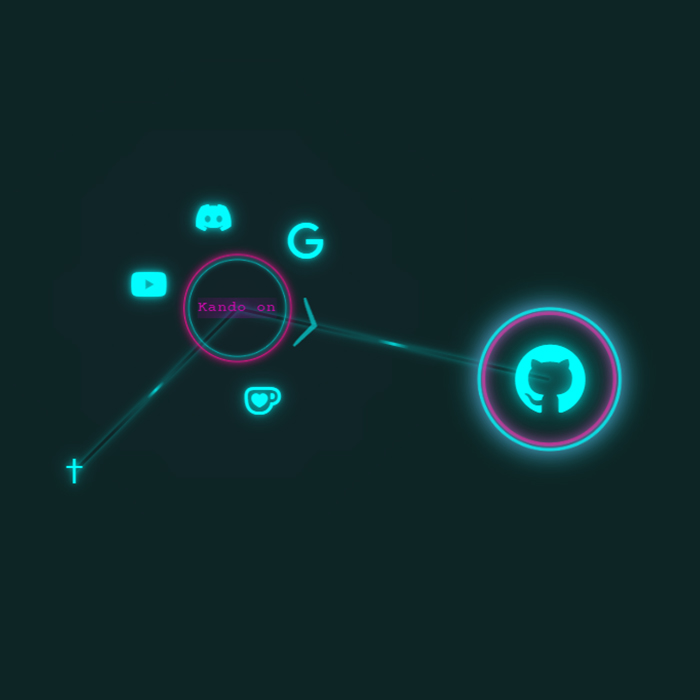
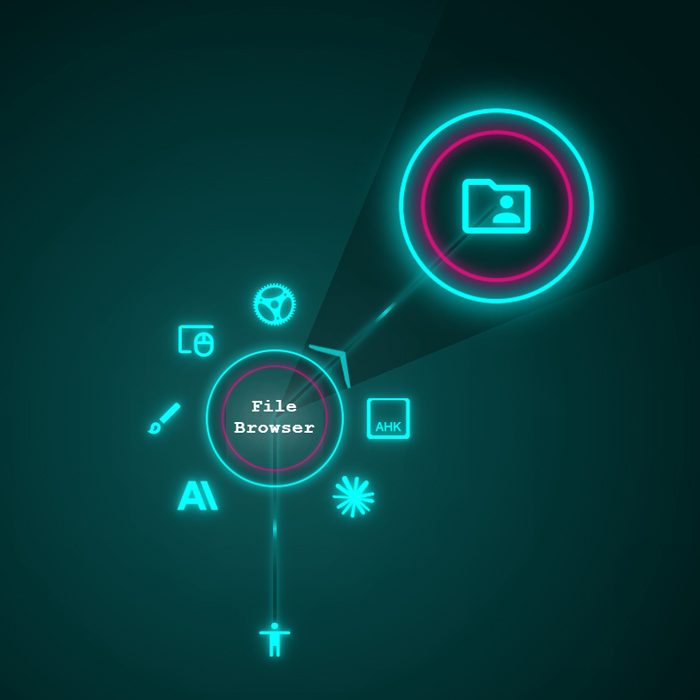
:wrench: Add wedges to Neo Ring theme

diff --git a/themes/neo-ring/theme.css b/themes/neo-ring/theme.css
@@ -399,3 +399,16 @@
 #kando-menu {
   background-color: var(--canvas-color) !important;
 }
+
+.selection-wedges {
+  mask: radial-gradient(circle at var(--center-x) var(--center-y), black 100px, transparent 50%);
+
+  &.hovered {
+    --width: calc(var(--end-angle) - var(--start-angle));
+    background: conic-gradient(from calc(var(--start-angle)) at var(--center-x) var(--center-y),
+        var(--wedge-highlight-color) var(--width),
+        var(--wedge-color) var(--width));
+  }
+
+  background: var(--wedge-color);
+}
